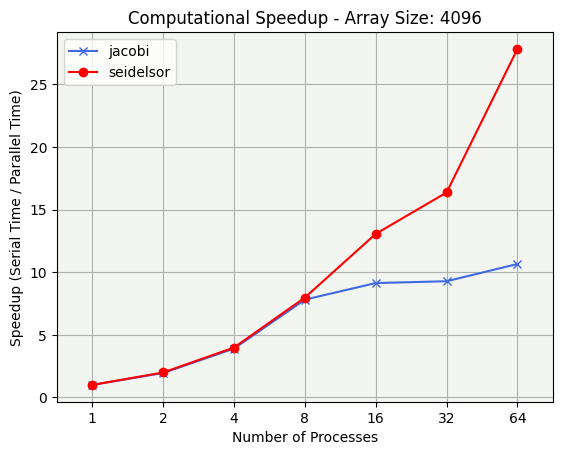
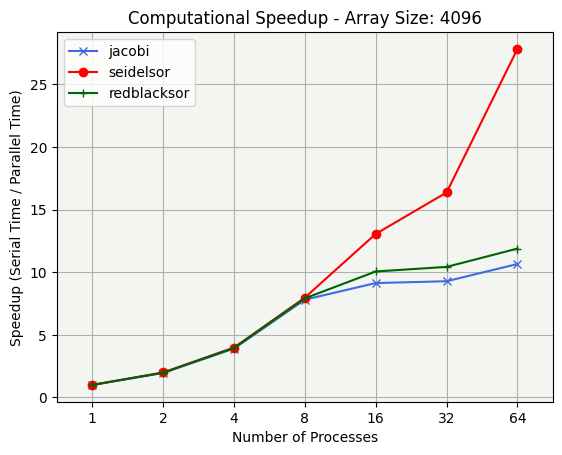
added plots with red-black

diff --git a/2nd_exec/src/plot.py b/2nd_exec/src/plot.py
@@ -8,8 +8,8 @@ matplotlib.use('Agg')
 import matplotlib.pyplot as plt
 from statistics import mean
 
-if len(sys.argv) < 3:
-    print("Usage: plot_metrics.py <input_directory_path> <input_directory_path>")
+if len(sys.argv) < 4:
+    print("Usage: plot_metrics.py <input_directory_path> <input_directory_path>  <input_directory_path>")
     exit(-1)
 
 jobs_confs = [1, 2, 4, 8, 16, 32, 64]

diff --git a/2nd_exec/src/plot_conv.py b/2nd_exec/src/plot_conv.py
@@ -8,8 +8,8 @@ matplotlib.use('Agg')
 import matplotlib.pyplot as plt
 from statistics import mean
 
-if len(sys.argv) < 3:
-    print("Usage: plot_metrics.py <input_directory_path> <input_directory_path>")
+if len(sys.argv) < 4:
+    print("Usage: plot_metrics.py <input_directory_path> <input_directory_path>  <input_directory_path>")
     exit(-1)
 
 names = []
